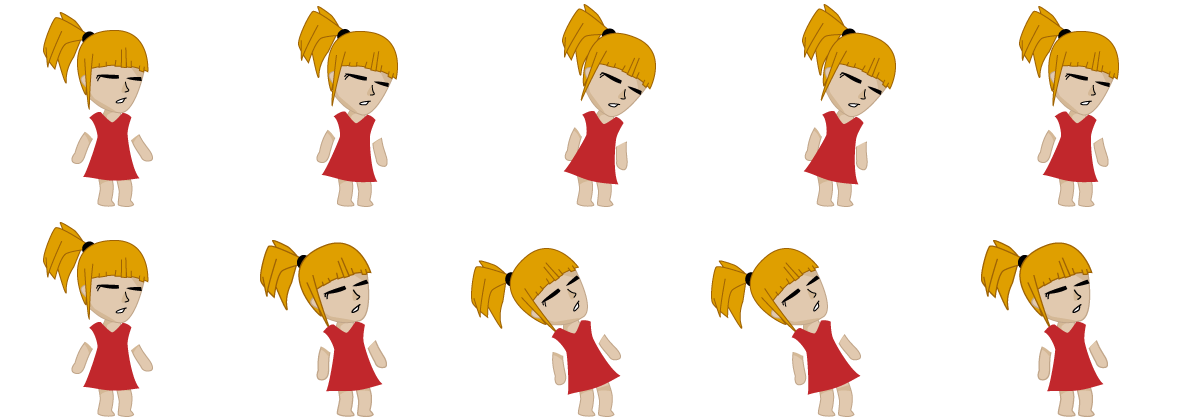
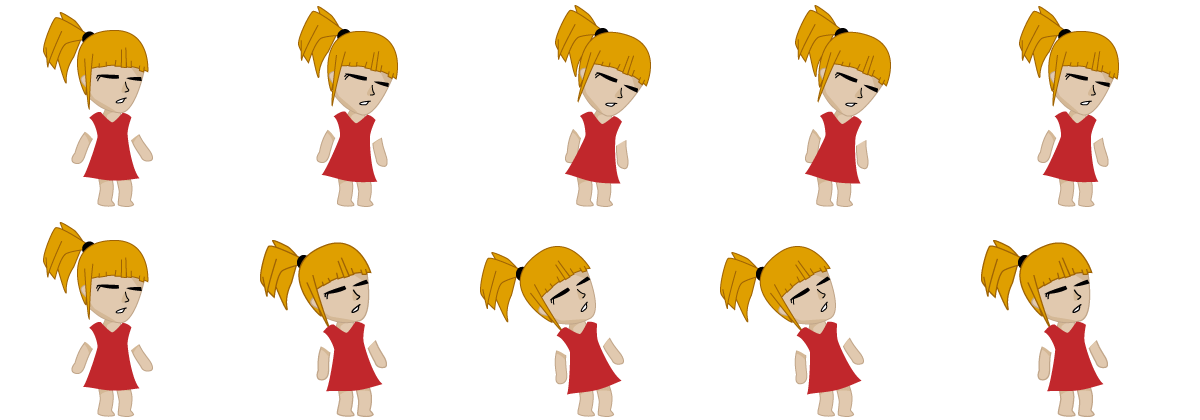
Changed the coma animation.

diff --git a/Nobots/Nobots/Nobots/Elements/ComaCharacterState.cs b/Nobots/Nobots/Nobots/Elements/ComaCharacterState.cs
@@ -9,20 +9,20 @@ namespace Nobots.Elements
 {
     class ComaCharacterState : CharacterState
     {
-        //int rows;
-        //int columns;
+        int rows;
+        int columns;
 
         Vector2? energyPosition = null;
         public ComaCharacterState(Scene scene, Character character, Vector2? energyPosition = null) 
             : base(scene, character)
-        {
+        { /*
             texture = scene.Game.Content.Load<Texture2D>("idle");
             character.texture = texture;
             characterWidth = texture.Width / 10;
             characterHeight = texture.Height / 2;
             textureXmin = 0;
             textureYmin = characterHeight;
-            /*
+           */
             texture = scene.Game.Content.Load<Texture2D>("coma");
             rows = 2;
             columns = 5;
@@ -31,12 +31,12 @@ namespace Nobots.Elements
             characterHeight = texture.Height / rows;
             textureXmin = 0;
             textureYmin = characterHeight;
-             */
+             
 
             this.energyPosition = energyPosition;
         }
 
-       /* public override void Update(GameTime gameTime)
+        public override void Update(GameTime gameTime)
         {
             changeComaTextures(gameTime);
         }
@@ -73,7 +73,7 @@ namespace Nobots.Elements
 
             return new Vector2(textureXmin, textureYmin);
         }
-        */
+        
         public override void Exit()
         {
         }
